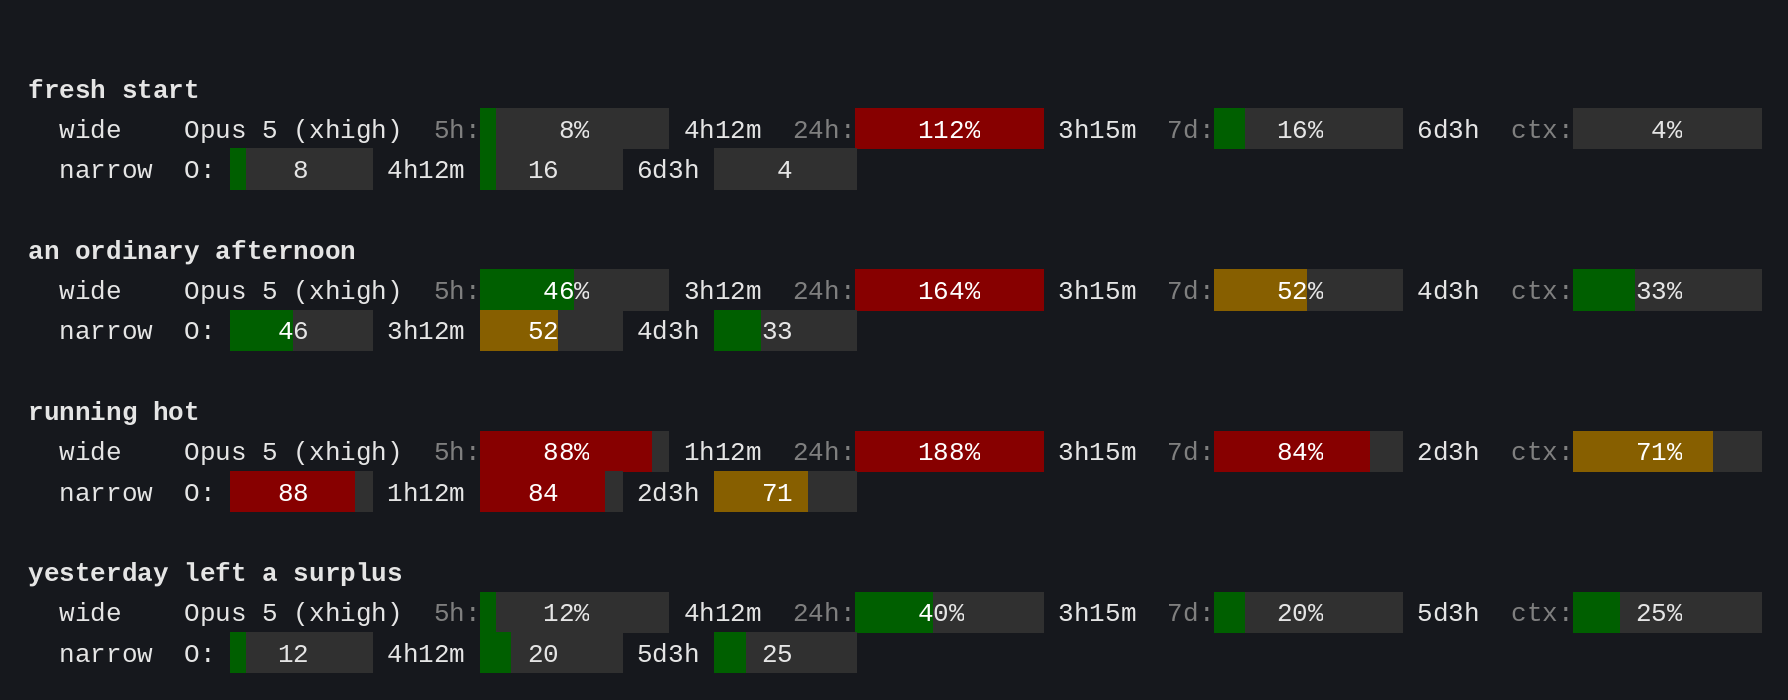
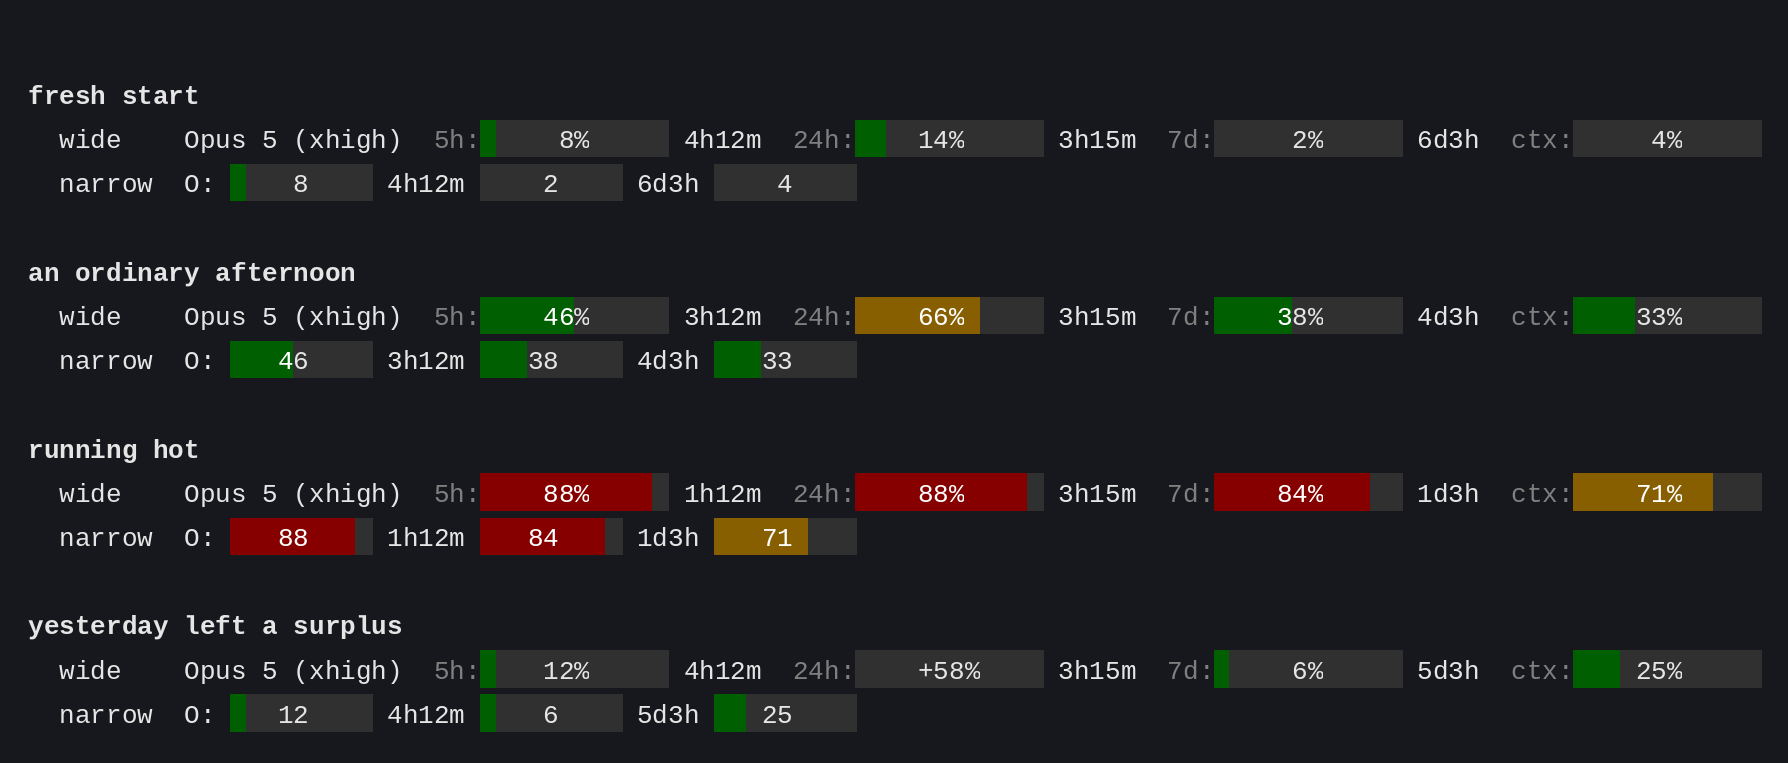
add demo images and preview --configs; stop rows merging in the renderer

diff --git a/demo/render.py b/demo/render.py
@@ -8,7 +8,8 @@ from PIL import Image, ImageDraw, ImageFont
 
 FONT = "/usr/share/fonts/truetype/liberation/LiberationMono-Regular.ttf"
 BOLD = "/usr/share/fonts/truetype/liberation/LiberationMono-Bold.ttf"
-SIZE, PAD, BG = 26, 28, (22, 24, 29)
+SIZE, PAD, GAP, BG = 26, 28, 4, (22, 24, 29)  # GAP keeps identical bars in
+                                              # neighbouring rows from merging
 
 # xterm system colours 0-15, then the 6×6×6 cube and the grey ramp.
 SYS = [(0,0,0),(205,0,0),(0,205,0),(205,205,0),(0,0,238),(205,0,205),(0,205,205),(229,229,229),
@@ -56,7 +57,7 @@ while lines and not lines[-1]:
 
 font, bold_font = ImageFont.truetype(FONT, SIZE), ImageFont.truetype(BOLD, SIZE)
 cw = font.getlength("M")
-ch = SIZE * 1.55
+ch = SIZE * 1.7
 img = Image.new("RGB", (int(max(len(l) for l in lines) * cw) + PAD * 2,
                         int(len(lines) * ch) + PAD * 2), BG)
 draw = ImageDraw.Draw(img)
@@ -66,9 +67,9 @@ for row, line in enumerate(lines):
     for col, (char, fg, bg, bold) in enumerate(line):
         x = PAD + col * cw
         if bg:
-            draw.rectangle([x, y, x + cw + 1, y + ch], fill=bg)
+            draw.rectangle([x, y + GAP, x + cw + 1, y + ch - GAP], fill=bg)
         if char != " ":
-            draw.text((x, y + ch * 0.18), char, font=bold_font if bold else font, fill=fg)
+            draw.text((x, y + ch * 0.22), char, font=bold_font if bold else font, fill=fg)
 
 img.save(sys.argv[1])
 print(f"{sys.argv[1]}: {img.width}×{img.height}")

diff --git a/README.md b/README.md
@@ -45,7 +45,10 @@ for your own 5h / week / context numbers.
 ## Configuration
 
 Copy [`pacebar.conf.example`](pacebar.conf.example) to `~/.claude/pacebar.conf`
-and uncomment what you want. It is sourced as plain bash.
+and uncomment what you want. It is sourced as plain bash. The same numbers under
+a handful of different settings — `./preview.sh --configs`:
+
+![configuration examples](demo/configs.png)
 
 **Layout**
 
